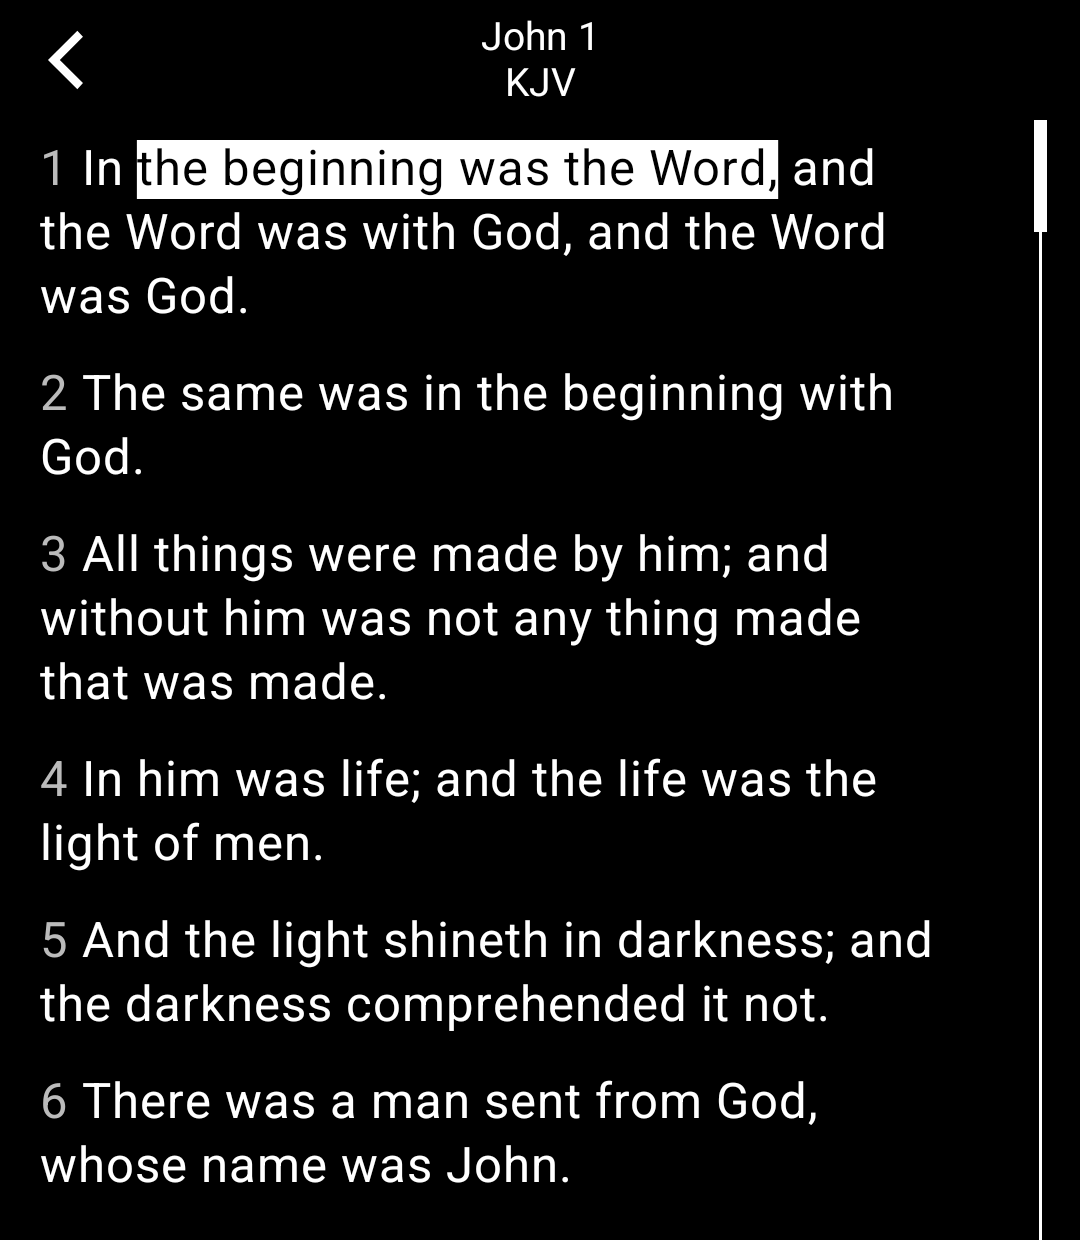
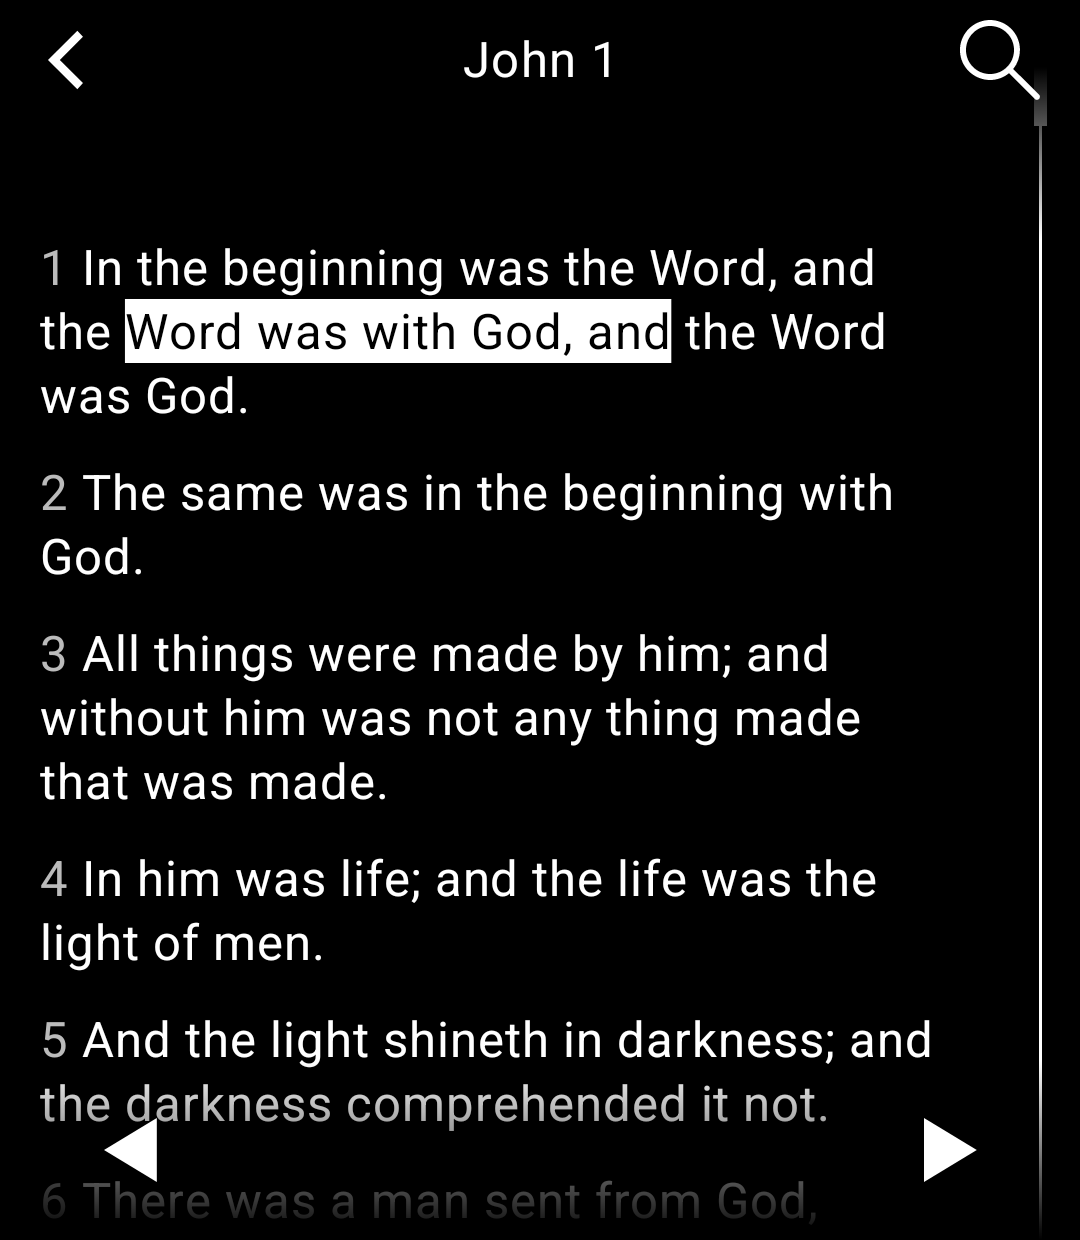
Retake the screenshots against the current reader
The four in the README were the old layout: a KJV subtitle under the
title, a bar at the bottom, hard edges, no fades. None of that is in
the app any more.

Reader and word-selection are now one gesture apart in John 1: the drag
shot catches "Word was with God, and" inverted mid-selection, the reader
shot is the same words underlined once committed. Search shows the new
summary, which says where the results reach as well as how many there
are. Home shows the verse it resumes at rather than just the chapter.

Alt text updated with them; the old text described a count and a layout
that no longer exist.

diff --git a/README.md b/README.md
@@ -11,10 +11,10 @@ Search is offline too: it scans the bundled text directly rather than keeping
 an index, so there is nothing to build on first run and nothing to migrate.
 
 <p>
-  <img src="docs/screenshots/reader.png" width="200" alt="A chapter of scripture, verse numbers in grey">
-  <img src="docs/screenshots/word-selection.png" width="200" alt="Words inverted mid-drag during a long-press selection">
-  <img src="docs/screenshots/search.png" width="200" alt="Search results reading Showing 60 of 74">
-  <img src="docs/screenshots/home.png" width="200" alt="Home screen: continue reading, books, search, highlights, settings">
+  <img src="docs/screenshots/reader.png" width="200" alt="John 1 with a word-level highlight underlined, the title floating over the text">
+  <img src="docs/screenshots/word-selection.png" width="200" alt="Words inverted mid-drag during a long-press selection in John 1:1">
+  <img src="docs/screenshots/search.png" width="200" alt="Search results for shepherd, reading Showing 60 of 74, across the whole Bible">
+  <img src="docs/screenshots/home.png" width="200" alt="Home screen: continue reading at John 1:24, then books, search, highlights, settings">
 </p>
 
 Cardinal is the reading half of [the iOS app of the same
